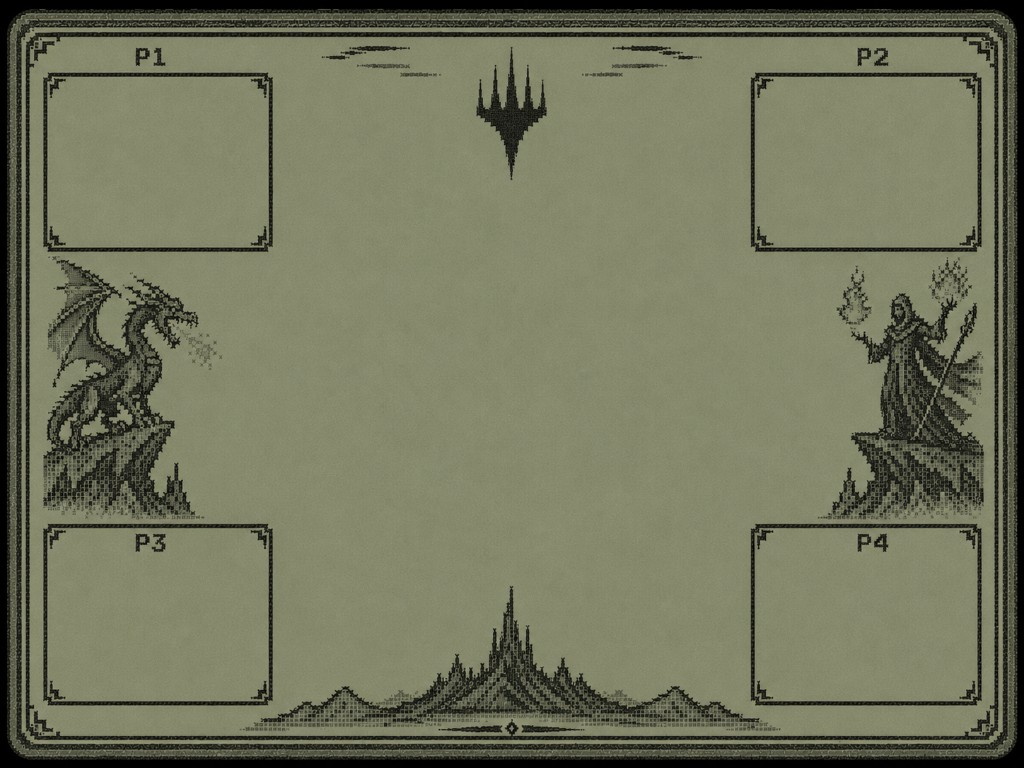
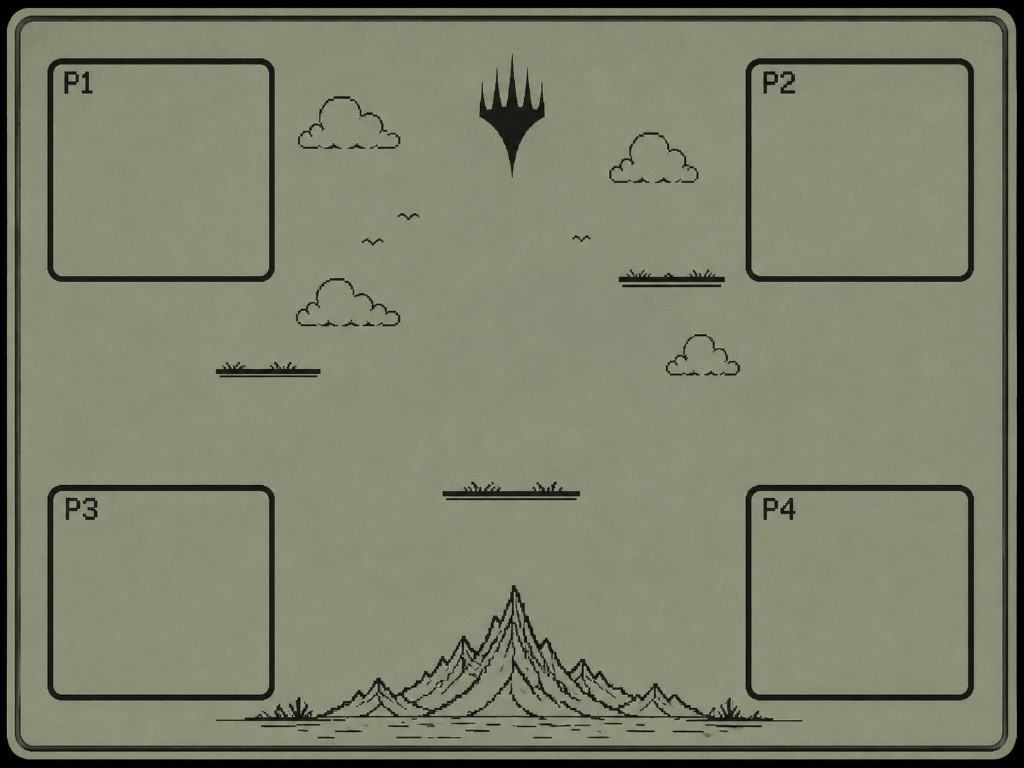
MTG life counter: new background, seven-segment font, ghost digits.

diff --git a/pi_handset/esp_handset/mtg_life_ui.py b/pi_handset/esp_handset/mtg_life_ui.py
@@ -7,13 +7,15 @@ from pathlib import Path
 from typing import Callable, Dict, List, Optional
 
 from PyQt5.QtCore import QRect, Qt
-from PyQt5.QtGui import QColor, QFont, QPainter, QPen, QPixmap
+from PyQt5.QtGui import QColor, QFont, QFontDatabase, QPainter, QPen, QPixmap
 from PyQt5.QtWidgets import QWidget
 
 from esp_handset import store
 from esp_handset.ui_font import font_family
 
 _BACKGROUND = Path(__file__).resolve().parents[1] / "Assets" / "mtg_life_background.png"
+_SEGMENT_FONT = Path(__file__).resolve().parents[1] / "Assets" / "SevenSegment.ttf"
+_SEGMENT_FAMILY: Optional[str] = None
 _MATCH_FILE = "mtg_life.json"
 _SETTINGS_FILE = "mtg_life_settings.json"
 _PLAYER_COUNT = 4
@@ -74,6 +76,47 @@ def _valid_match(raw) -> Optional[Dict[str, object]]:
     except (TypeError, ValueError):
         return None
     return {"version": 1, "players": players}
+
+
+def _segment_family() -> str:
+    global _SEGMENT_FAMILY
+    if _SEGMENT_FAMILY:
+        return _SEGMENT_FAMILY
+    if _SEGMENT_FONT.is_file():
+        font_id = QFontDatabase.addApplicationFont(str(_SEGMENT_FONT))
+        if font_id >= 0:
+            families = QFontDatabase.applicationFontFamilies(font_id)
+            if families:
+                _SEGMENT_FAMILY = families[0]
+                return _SEGMENT_FAMILY
+    return font_family()
+
+
+def _segment_font(pixels: int) -> QFont:
+    font = QFont(_segment_family())
+    font.setPixelSize(max(8, pixels))
+    return font
+
+
+def _draw_ghosted_digits(
+    painter: QPainter,
+    rect: QRect,
+    text: str,
+    *,
+    ghost: str = "000",
+    ink: Optional[QColor] = None,
+    ghost_alpha: int = 48,
+    font_px: Optional[int] = None,
+) -> None:
+    ink = ink or QColor("#202719")
+    ghost_color = QColor(ink)
+    ghost_color.setAlpha(ghost_alpha)
+    px = font_px or max(12, rect.height() // 2)
+    painter.setFont(_segment_font(px))
+    painter.setPen(ghost_color)
+    painter.drawText(rect, Qt.AlignCenter, ghost)
+    painter.setPen(ink)
+    painter.drawText(rect, Qt.AlignCenter, text)
 
 
 class MtgLifeCounter(QWidget):
@@ -310,10 +353,30 @@ class MtgLifeCounter(QWidget):
         painter.end()
 
     def _lcd_font(self, pixels: int, bold: bool = False) -> QFont:
-        font = QFont(font_family())
-        font.setPixelSize(max(8, pixels))
+        font = _segment_font(pixels)
         font.setBold(bold)
         return font
+
+    def _draw_ghosted_digits(
+        self,
+        painter: QPainter,
+        rect: QRect,
+        text: str,
+        *,
+        ghost: str = "000",
+        ink: Optional[QColor] = None,
+        ghost_alpha: int = 48,
+        font_px: Optional[int] = None,
+    ) -> None:
+        _draw_ghosted_digits(
+            painter,
+            rect,
+            text,
+            ghost=ghost,
+            ink=ink,
+            ghost_alpha=ghost_alpha,
+            font_px=font_px,
+        )
 
     def _draw_players(self, painter: QPainter, origin: tuple) -> None:
         if self._match is None:
@@ -332,9 +395,15 @@ class MtgLifeCounter(QWidget):
                 painter.setBrush(QColor(210, 220, 150, 55))
                 painter.drawRoundedRect(rect.adjusted(2, 2, -2, -2), 3, 3)
             painter.setPen(ink)
-            painter.setFont(self._lcd_font(max(12, rect.height() // 3), True))
-            value = str(self._match["players"][index]["life"])
-            painter.drawText(rect, Qt.AlignCenter, value)
+            life = self._match["players"][index]["life"]
+            display = str(life) if life < 0 else f"{life:03d}"
+            self._draw_ghosted_digits(
+                painter,
+                rect,
+                display,
+                ghost="000",
+                font_px=max(18, rect.height() // 2),
+            )
 
     def _menu_rect(self, origin: tuple) -> QRect:
         ox, oy, width, height = origin
@@ -378,10 +447,31 @@ class MtgLifeCounter(QWidget):
             if index == self._menu_index:
                 painter.fillRect(row, QColor(45, 55, 34, 95))
             painter.drawText(
-                row,
+                QRect(row.left(), row.top(), row.width() // 2, row.height()),
                 Qt.AlignVCenter | Qt.AlignLeft,
-                f"{label[:9]:<9} {value:>4}",
+                label[:9],
             )
+            value_rect = QRect(
+                row.left() + row.width() // 2,
+                row.top(),
+                row.width() // 2 - 4,
+                row.height(),
+            )
+            if index == 0:
+                display = str(value) if value < 0 else f"{value:03d}"
+                self._draw_ghosted_digits(
+                    painter,
+                    value_rect,
+                    display,
+                    ghost="000",
+                    font_px=max(10, row_height - 2),
+                )
+            else:
+                painter.drawText(
+                    value_rect,
+                    Qt.AlignVCenter | Qt.AlignRight,
+                    f"{value:03d}",
+                )
 
     def _draw_damage_menu(self, painter: QPainter, origin: tuple) -> None:
         rect = self._menu_rect(origin)
@@ -408,7 +498,19 @@ class MtgLifeCounter(QWidget):
                 painter.fillRect(row, QColor(45, 55, 34, 95))
             damage = player["commander_damage"][opponent]
             painter.drawText(row, Qt.AlignVCenter | Qt.AlignLeft, f"P{opponent + 1}")
-            painter.drawText(row, Qt.AlignVCenter | Qt.AlignRight, f"{damage:03d}")
+            damage_rect = QRect(
+                row.left() + row.width() // 2,
+                row.top(),
+                row.width() // 2 - 4,
+                row.height(),
+            )
+            self._draw_ghosted_digits(
+                painter,
+                damage_rect,
+                f"{damage:03d}",
+                ghost="000",
+                font_px=max(10, row_height // 2),
+            )
 
     def _draw_setup(self, painter: QPainter, origin: tuple) -> None:
         rect = self._menu_rect(origin)
@@ -440,10 +542,13 @@ class MtgLifeCounter(QWidget):
         )
         painter.setFont(self._lcd_font(max(22, rect.height() // 4), True))
         digits = f"{self._setup_value:03d}"
-        painter.drawText(
-            QRect(rect.left() + 8, rect.top() + 20, rect.width() - 16, 35),
-            Qt.AlignCenter,
+        digit_rect = QRect(rect.left() + 8, rect.top() + 20, rect.width() - 16, 35)
+        self._draw_ghosted_digits(
+            painter,
+            digit_rect,
             digits,
+            ghost="000",
+            font_px=max(22, rect.height() // 4),
         )
         digit_width = max(12, rect.width() // 5)
         x = int(
@@ -522,28 +627,26 @@ class MtgSettingsPage(QWidget):
 
     def paintEvent(self, _event) -> None:  # noqa: N802
         painter = QPainter(self)
+        ink = QColor("#202719")
         try:
             painter.fillRect(self.rect(), QColor("#969a79"))
-            painter.setPen(QColor("#202719"))
-            painter.setFont(
-                QFont(font_family(), max(14, self.height() // 12), QFont.Bold)
+            painter.setPen(ink)
+            title_rect = self.rect().adjusted(8, 16, -8, -self.height() // 2)
+            painter.setFont(_segment_font(max(14, self.height() // 12)))
+            painter.drawText(title_rect, Qt.AlignCenter, "MTG STARTING LIFE")
+            value_rect = self.rect().adjusted(
+                8, self.height() // 4, -8, -self.height() // 3
             )
-            painter.drawText(
-                self.rect().adjusted(8, 16, -8, -self.height() // 2),
-                Qt.AlignCenter,
-                "MTG STARTING LIFE",
+            digits = f"{self._value:03d}"
+            _draw_ghosted_digits(
+                painter,
+                value_rect,
+                digits,
+                ghost="000",
+                ink=ink,
+                font_px=max(28, self.height() // 5),
             )
-            painter.setFont(
-                QFont(font_family(), max(28, self.height() // 5), QFont.Bold)
-            )
-            painter.drawText(
-                self.rect().adjusted(
-                    8, self.height() // 4, -8, -self.height() // 3
-                ),
-                Qt.AlignCenter,
-                f"{self._value:03d}",
-            )
-            painter.setPen(QPen(QColor("#202719"), 2))
+            painter.setPen(QPen(ink, 2))
             span = max(18, self.width() // 7)
             x = int(self.width() // 2 - span * 1.5 + self._digit * span)
             painter.drawLine(
@@ -552,7 +655,7 @@ class MtgSettingsPage(QWidget):
                 x + span - 4,
                 self.height() // 2 + 12,
             )
-            painter.setFont(QFont(font_family(), max(9, self.height() // 22)))
+            painter.setFont(_segment_font(max(9, self.height() // 22)))
             painter.drawText(
                 self.rect().adjusted(8, self.height() // 2 + 25, -8, -12),
                 Qt.AlignCenter,
